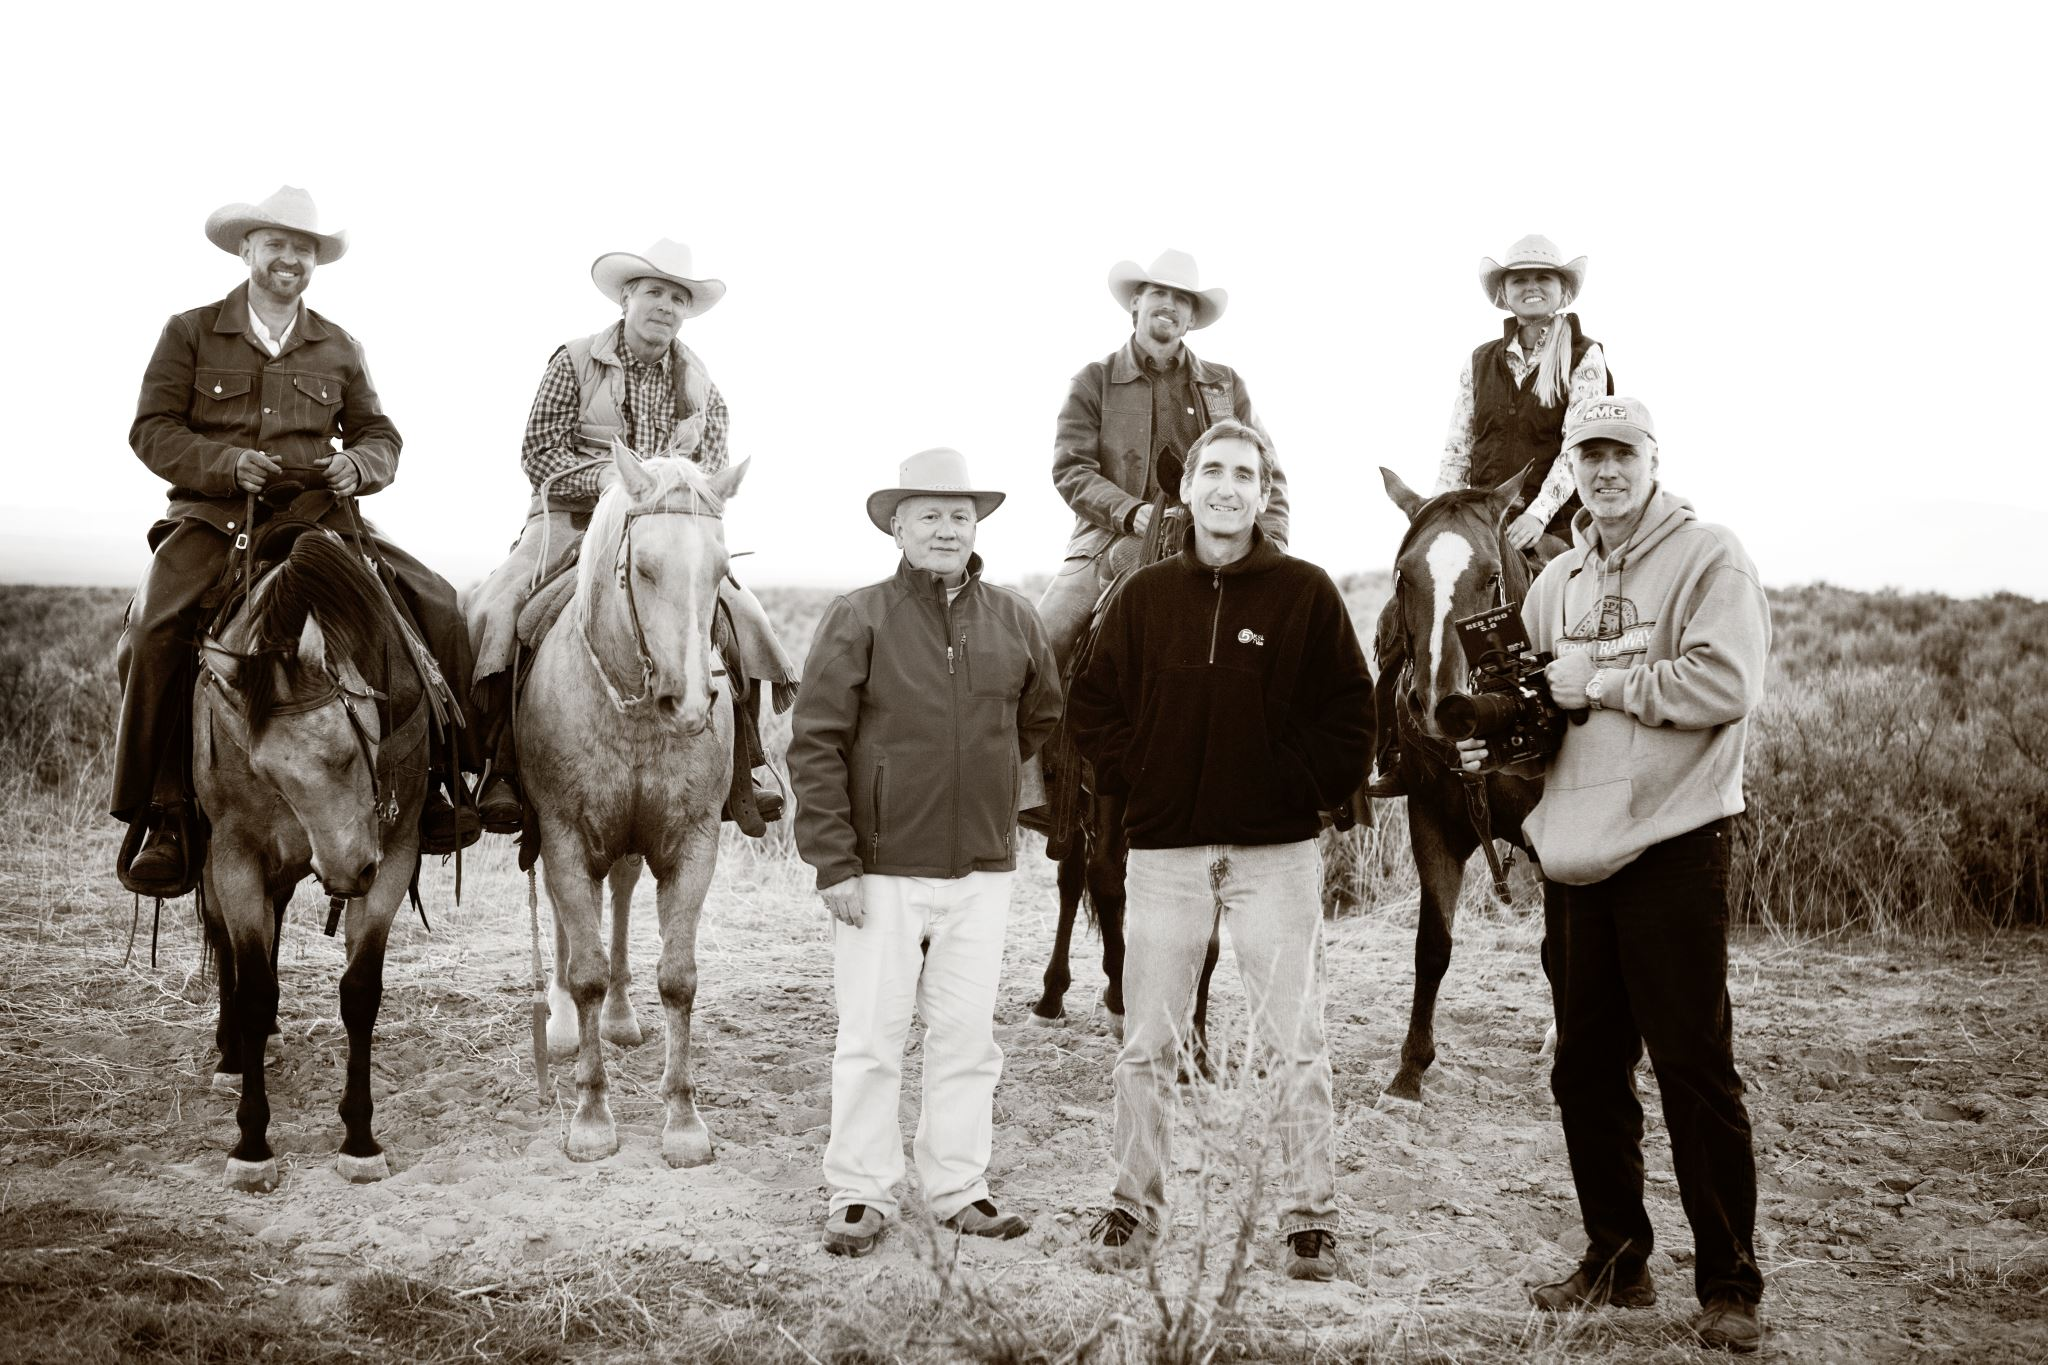
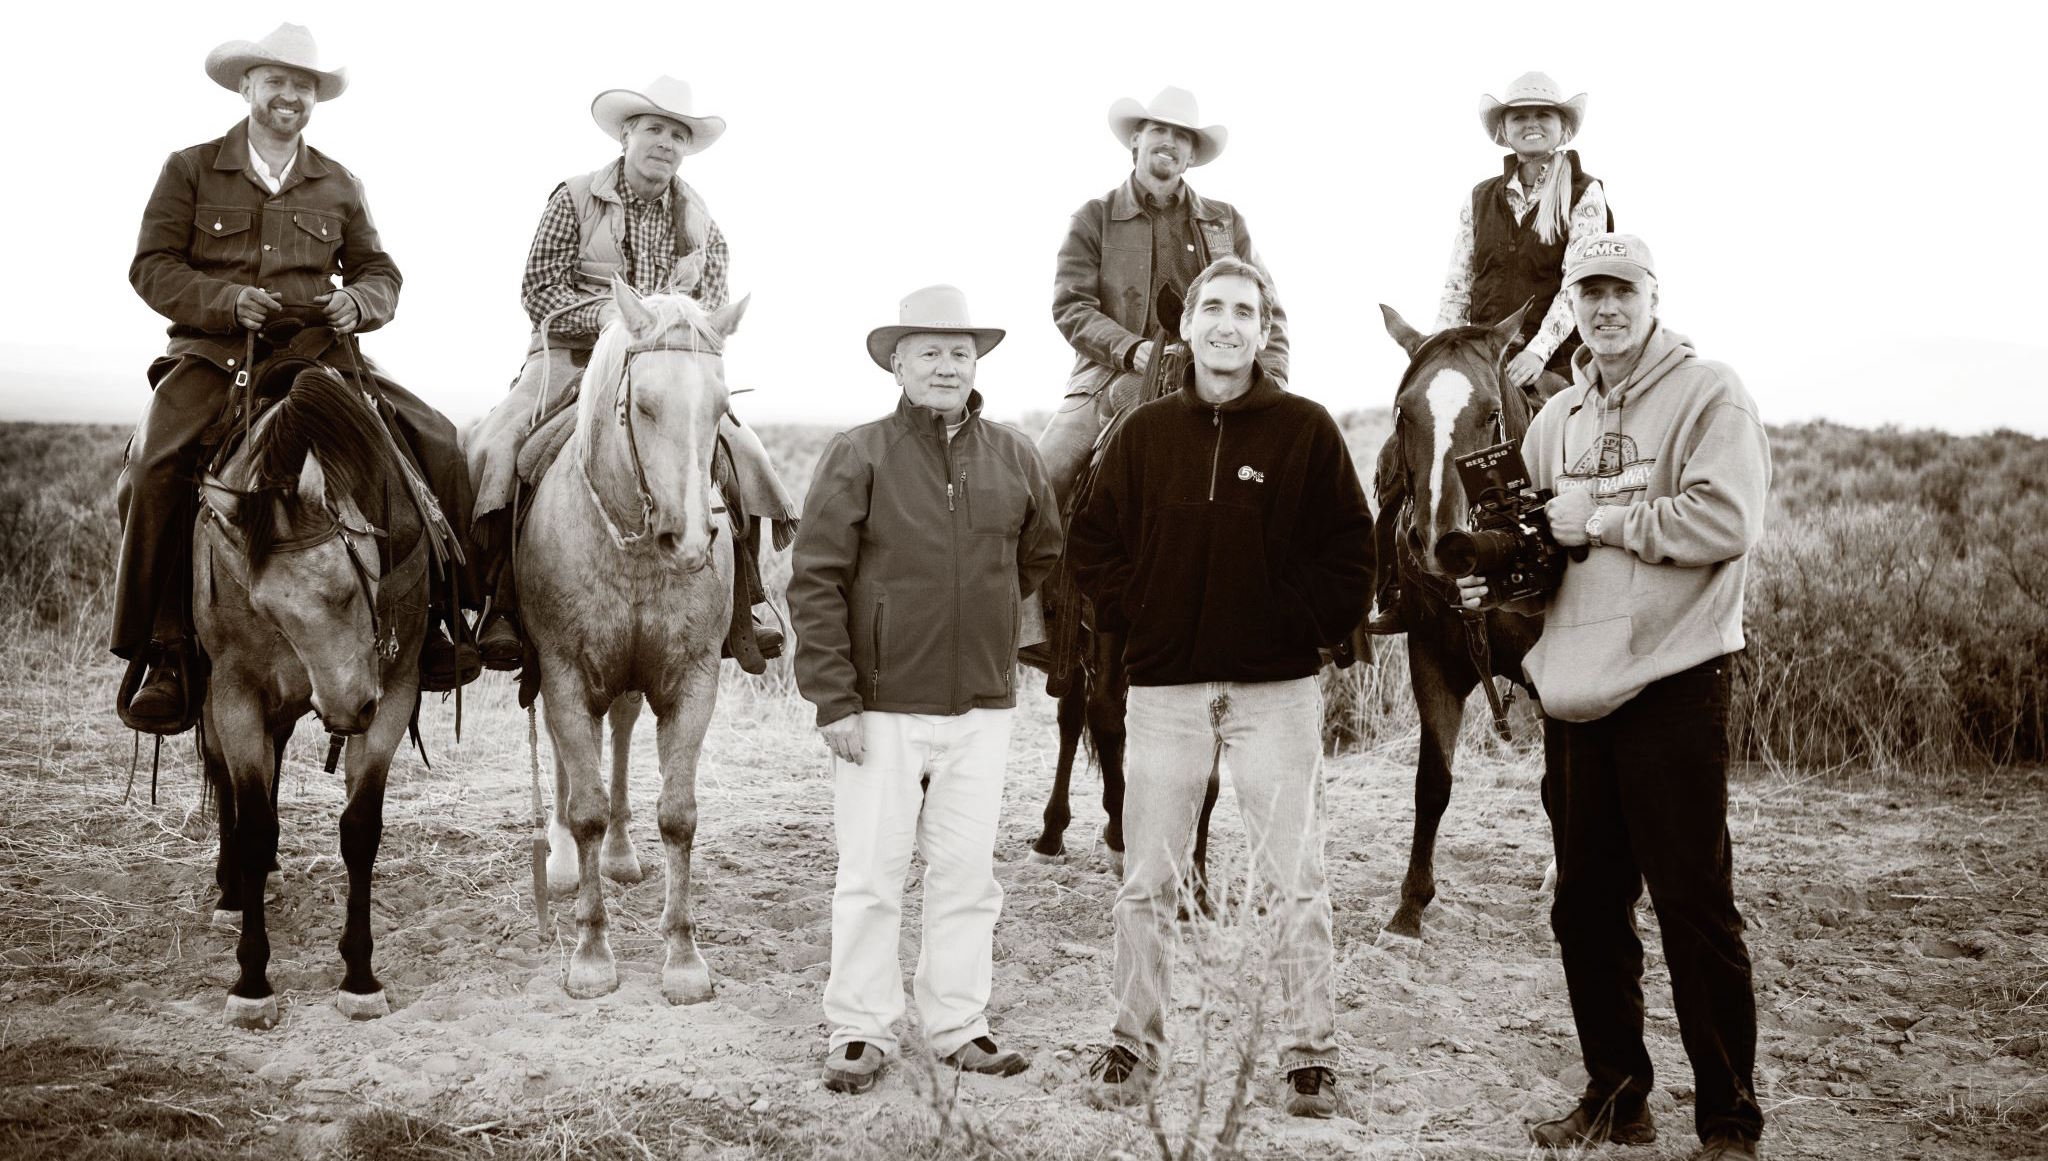
feat(): added picture bar

diff --git a/app/views/main.html b/app/views/main.html
@@ -1,51 +1,47 @@
-<div class="jumbotron">
-  <h1>'Allo, 'Allo!</h1>
-  <p class="lead">
-    <img src="images/yeoman.png" alt="I'm Yeoman"><br>
-    Always a pleasure scaffolding your apps.
-  </p>
-  <p><a class="btn btn-lg btn-success" ng-href="#/">Splendid!<span class="glyphicon glyphicon-ok"></span></a></p>
+
+<div class="navDark" style="width:100%;">
+  <div class="container content" style="padding-top:50px">
+    <div class="container">
+      <div style="padding: 0 16% 0 12%">
+        <img src="images/team_cowboys.jpg" alt="Team" style="max-width: 100%; height: auto; ">
+      </div>
+    </div>
+  </div>
 </div>
 
-<div class="row marketing">
-  <h4>HTML5 Boilerplate</h4>
-  <p>
-    HTML5 Boilerplate is a professional front-end template for building fast, robust, and adaptable web apps or sites.
-  </p>
 
-  <h4>Angular</h4>
-  <p>
-    AngularJS is a toolset for building the framework most suited to your application development.
-  </p>
+<div class="container">
 
-  <h4>Karma</h4>
-  <p>Spectacular Test Runner for JavaScript.</p>
+  <p class="header1 text-center">Award winning productions since 1987</p>
+  <div style="margin-left: auto; margin-right: auto; max-width: 461px">
+    <p class="generalText text-center" style="max-width: 461px">
+      We produce the highest quality digital media for our clients.
+      We have been delivering award winning programs to our clients,
+      distribution companies and the networks for over twenty years.
+      <br /><br />
+      We will do the same for you.
+    </p>
+  </div>
+
+  <div style="padding: 0 25% 0 25%">
+    <img src="images/funWheel.png" alt="wheel" style="max-width: 100%; height: auto; ">
+  </div>
 </div>
-<div class="row marketing">
-  <h4>HTML5 Boilerplate</h4>
-  <p>
-    HTML5 Boilerplate is a professional front-end template for building fast, robust, and adaptable web apps or sites.
-  </p>
 
-  <h4>Angular</h4>
-  <p>
-    AngularJS is a toolset for building the framework most suited to your application development.
-  </p>
+<div style="width: 100%; max-height: 239px">
+  <div style="margin-top: 40px; margin-bottom: 40px; max-width: 1280px; margin-left: auto; margin-right: auto;">
+    <ul style="font-size: 0; width: 100%; margin: 0; padding: 0; list-style-type: none;">
+      <li style="display: inline;"><img style="max-width: 25%; max-height: 240px" src="images/cut/camera_sunset.jpg"></li>
+      <li style="display: inline;"><img style="max-width: 25%; max-height: 240px" src="images/cut/awards.jpg"></li>
+      <li style="display: inline;"><img style="max-width: 25%; max-height: 240px" src="images/cut/gill_camera_pic.jpg"></li>
+      <li style="display: inline;"><img style="max-width: 25%; max-height: 240px" src="images/cut/director_point_of_view.jpg"></li>
+    </ul>
 
-  <h4>Karma</h4>
-  <p>Spectacular Test Runner for JavaScript.</p>
+  </div>
 </div>
-<div class="row marketing">
-  <h4>HTML5 Boilerplate</h4>
-  <p>
-    HTML5 Boilerplate is a professional front-end template for building fast, robust, and adaptable web apps or sites.
-  </p>
 
-  <h4>Angular</h4>
-  <p>
-    AngularJS is a toolset for building the framework most suited to your application development.
-  </p>
-
-  <h4>Karma</h4>
-  <p>Spectacular Test Runner for JavaScript.</p>
+<div class="container">
+  <div style="padding: 0 25% 0 25%">
+    <img src="images/funWheel.png" alt="wheel" style="max-width: 100%; height: auto; ">
+  </div>
 </div>

diff --git a/app/styles/main.scss b/app/styles/main.scss
@@ -22,11 +22,6 @@ body {
   padding-right: 15px;
 }
 
-/* Center of the web page. */
-.content {
- margin-top: 50px;
-}
-
 /* Custom page header */
 .header {
   margin-bottom: 10px;
@@ -38,6 +33,33 @@ body {
     line-height: 40px;
     padding-bottom: 19px;
   }
+}
+
+
+/*----------------------------------------------------------------------------------
+TEXT
+----------------------------------------------------------------------------------*/
+.header1 {
+  color:#888888;
+  font-family:'ArialMT';
+  font-size:44px;
+}
+
+.header2 {
+  color:#555555;
+  font-family:'Arial-BoldMT';
+  font-size:16px;
+}
+.generalText {
+  color:#888888;
+  font-family:'ArialMT';
+  font-size:16px;
+}
+
+.clientQuote {
+  color:#888888;
+  font-family:'Arial-ItalicMT';
+  font-size:16px;
 }
 
 
@@ -60,11 +82,17 @@ Nav BAR
   padding: 0 8% 0 8%;
 }
 
+.navDark {
+  background-color: #333333;
+}
 
 // ---- Dark Theme ---- //
 .navbar-dark {
-  background-color: #333333;
-  border-color: #333333;
+  border-width: 0;
+  background: -webkit-linear-gradient(#333333, #333333 90%, rgba(51,51,51,0.5)); /* For Safari 5.1 to 6.0 */
+  background: -o-linear-gradient(#333333, #333333 90%,rgba(51,51,51,0.5)); /* For Opera 11.1 to 12.0 */
+  background: -moz-linear-gradient(#333333, #333333 90%,rgba(51,51,51,0.5)); /* For Firefox 3.6 to 15 */
+  background: linear-gradient(#333333, #333333 90%,rgba(51,51,51,0.5)); /* Standard syntax */
 }
 .navbar-dark .navbar-nav > li > a {
   color: #888;

diff --git a/app/index.html b/app/index.html
@@ -61,9 +61,7 @@
       </div>
     </div>
 
-    <div class="container content">
       <div ng-view=""></div>
-    </div>
 
     <div class="footer">
       <div class="container">
